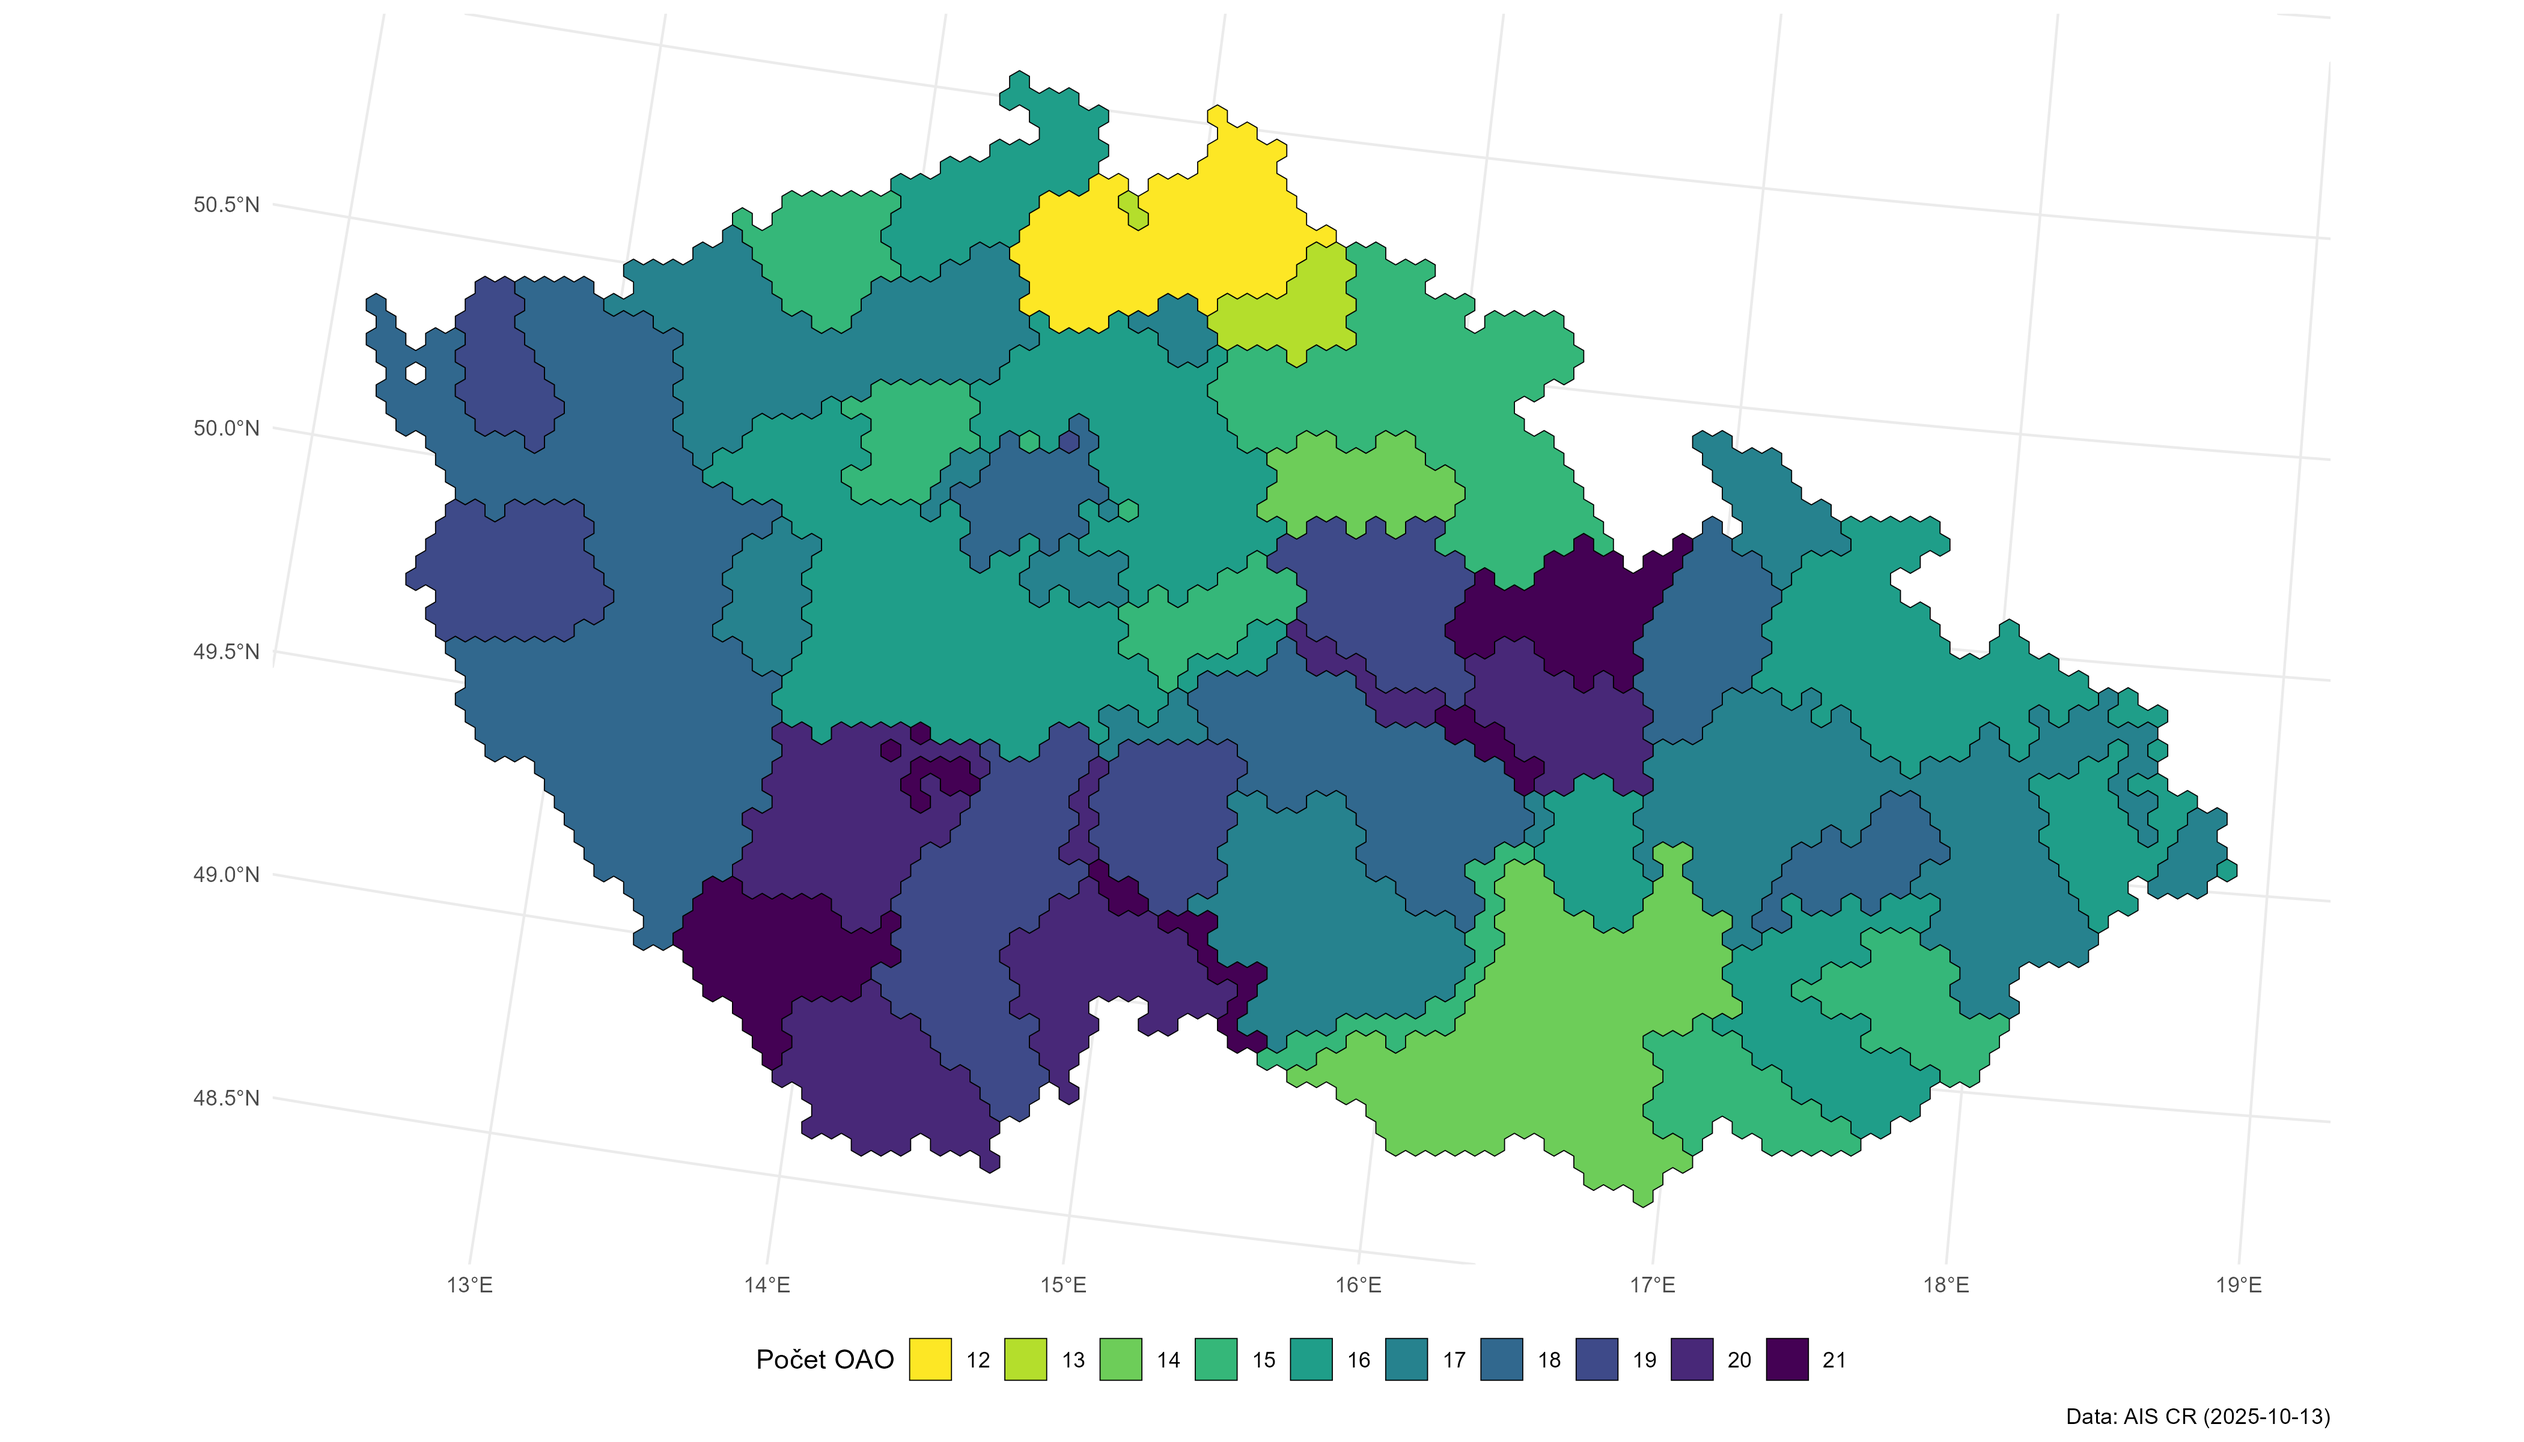
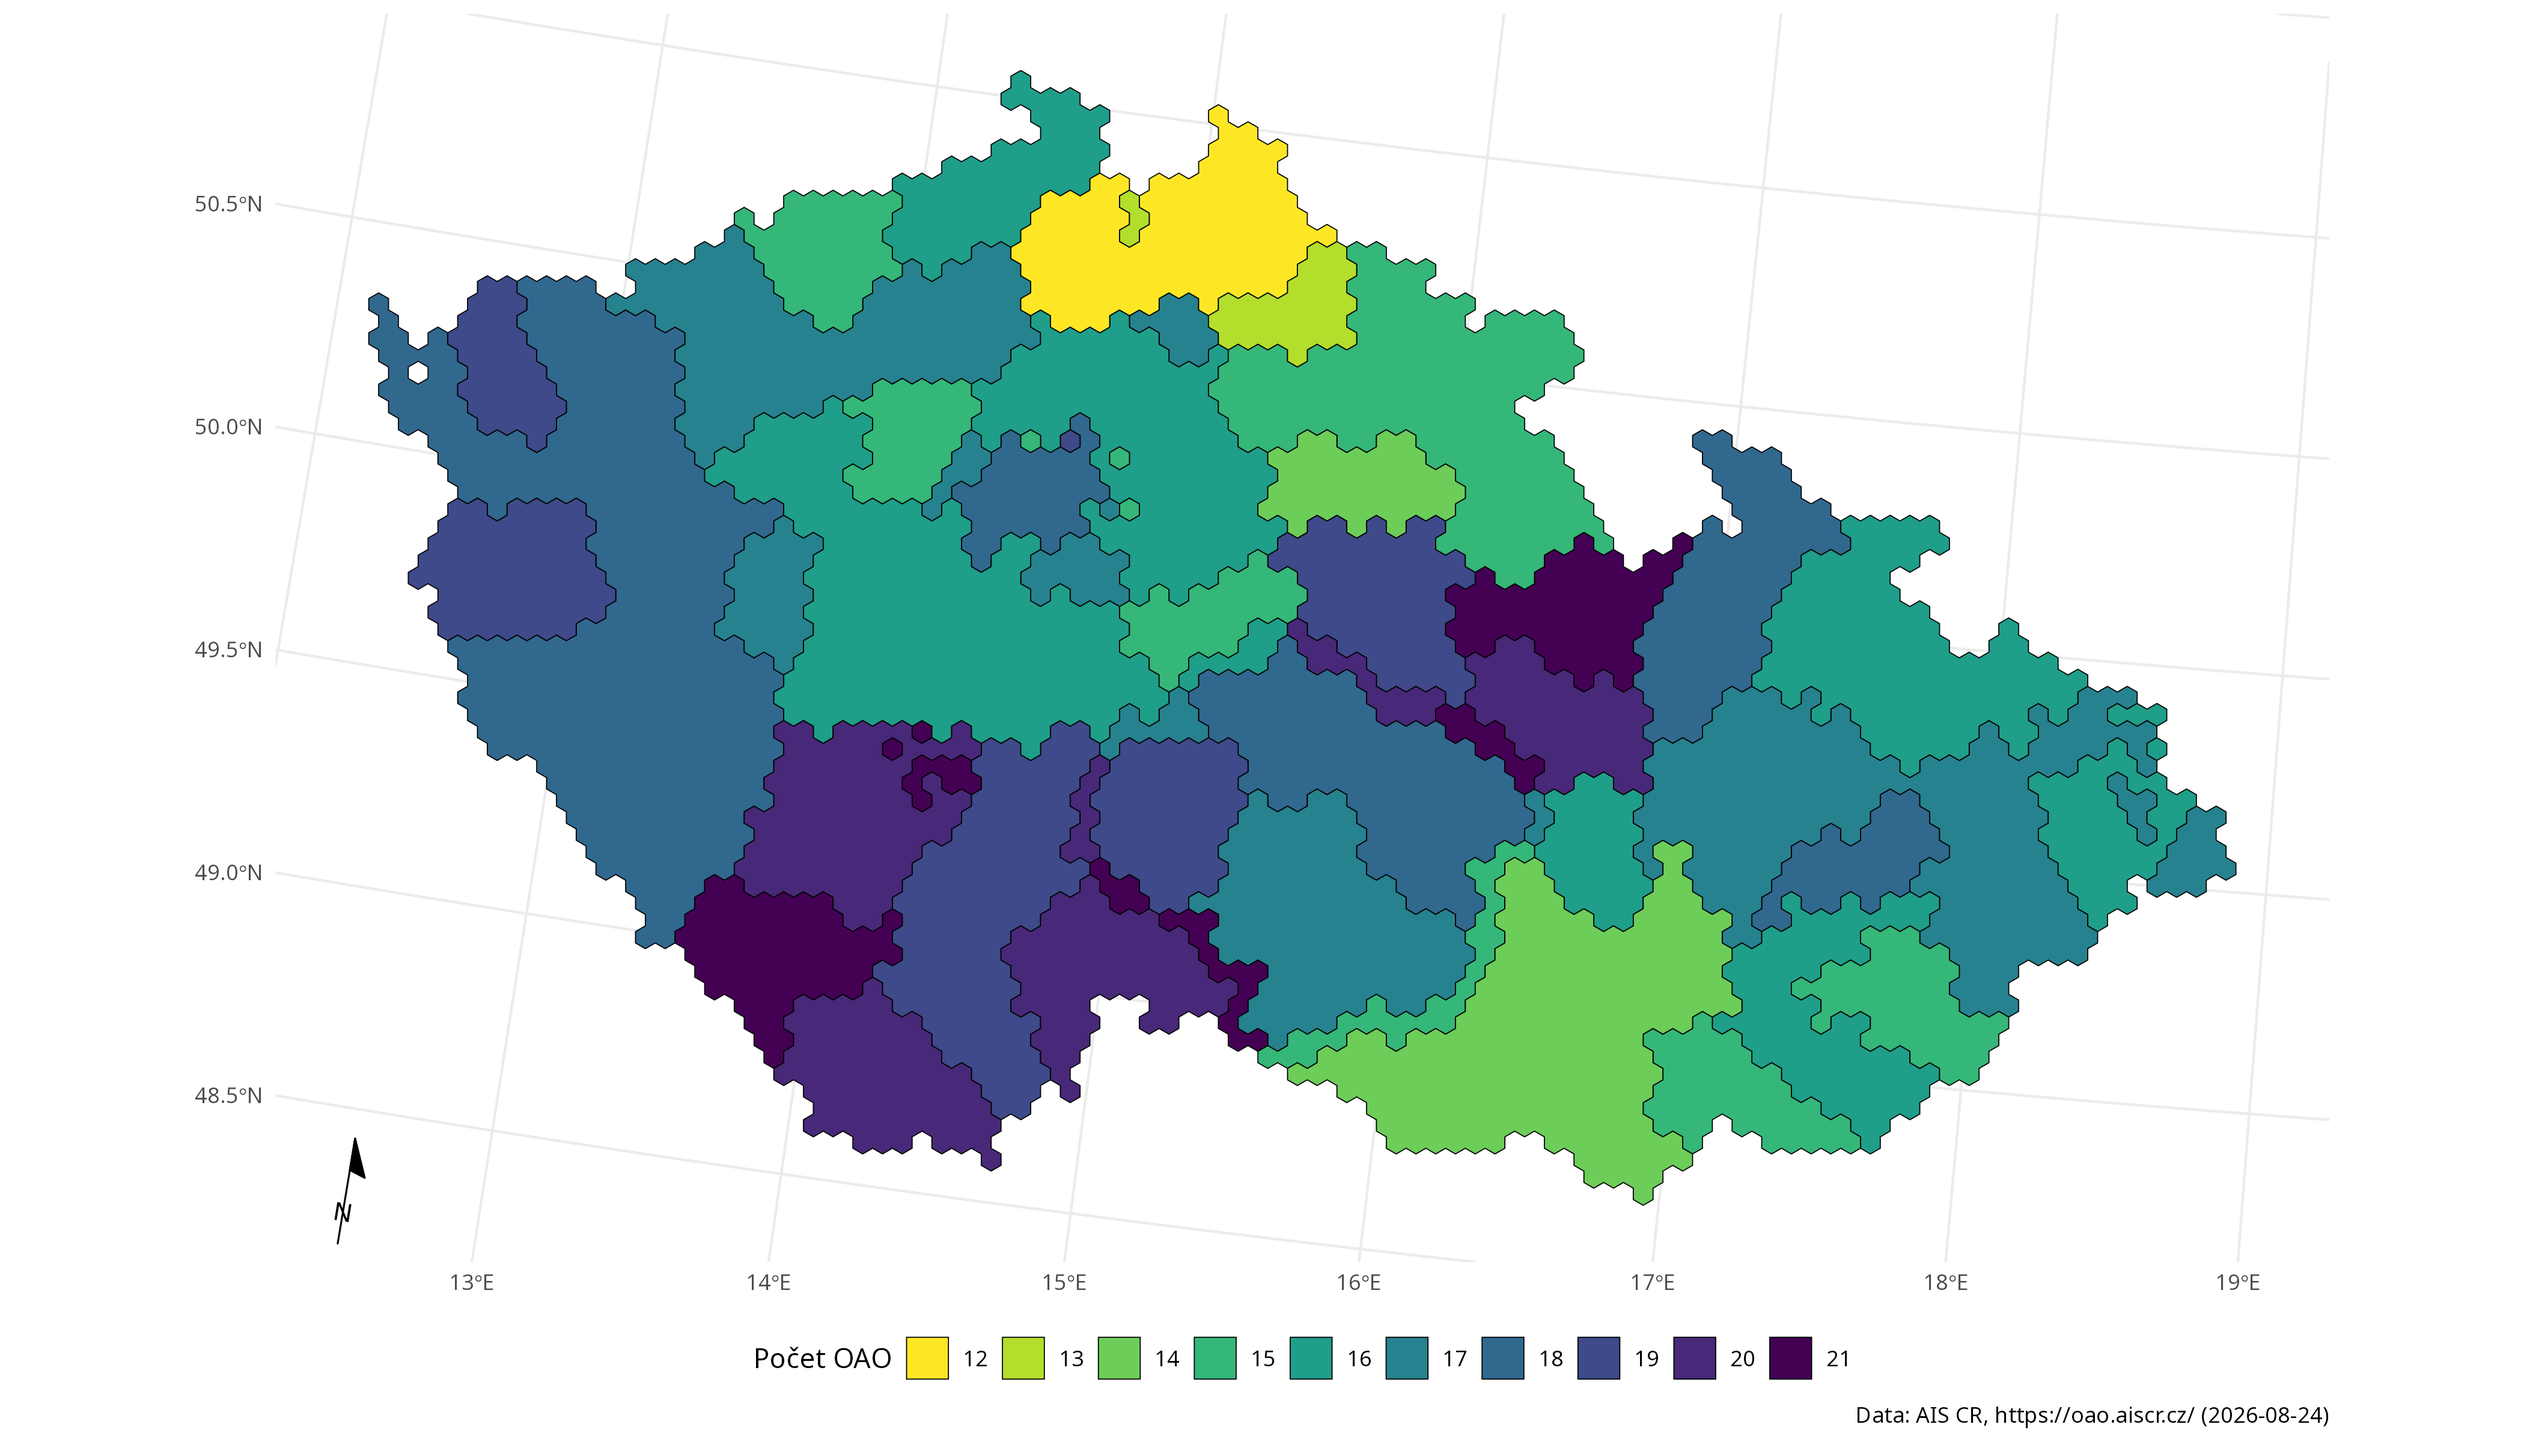
Add code for plot - map of nr. of OAOs

diff --git a/app/text/about_left.md b/app/text/about_left.md
@@ -1,11 +1,12 @@
-### Poster
+### Mapa
 
-Poster z konference <a href='https://amcr-info.aiscr.cz/ppa2022/' target=_blank>Počítačová podpora v archeologii 2022</a>:
+Mapa počtu organizací působících na různých místech České republiky.
 
-<a href='https://doi.org/10.5281/zenodo.7515094' target=_blank><img src='poster_oao.png' style='width: 100%; padding: 4;'></a>
+<img src='map-oao.png' style='width:100%; padding:4;'>
 
+<!-- ### Poster -->
 
+<!-- Poster z konference <a href='https://amcr-info.aiscr.cz/ppa2022/' target=_blank>Počítačová podpora v archeologii 2022</a>: -->
 
-
-
+<!-- <a href='https://doi.org/10.5281/zenodo.7515094' target=_blank><img src='poster_oao.png' style='width: 100%; padding: 4;'></a> -->
 
